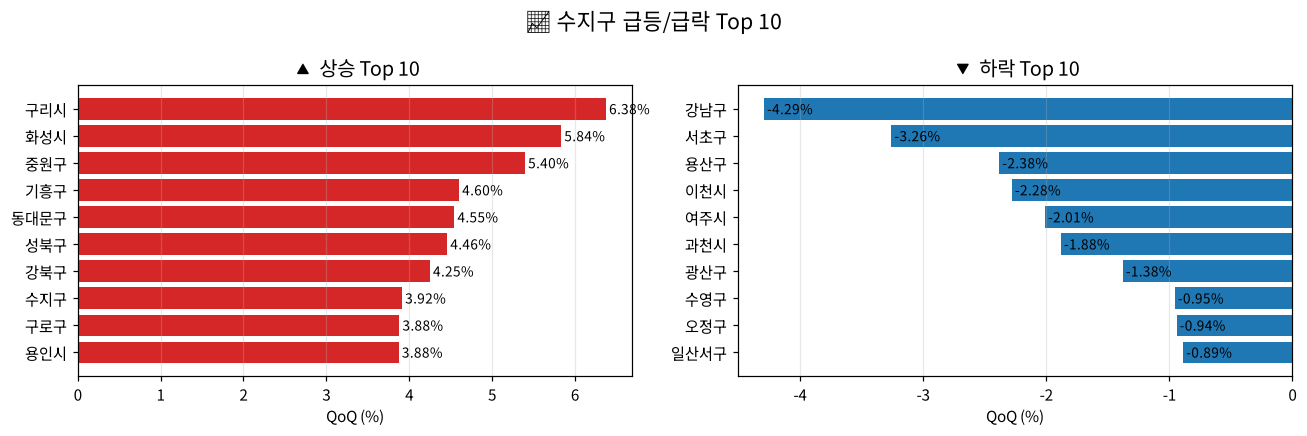
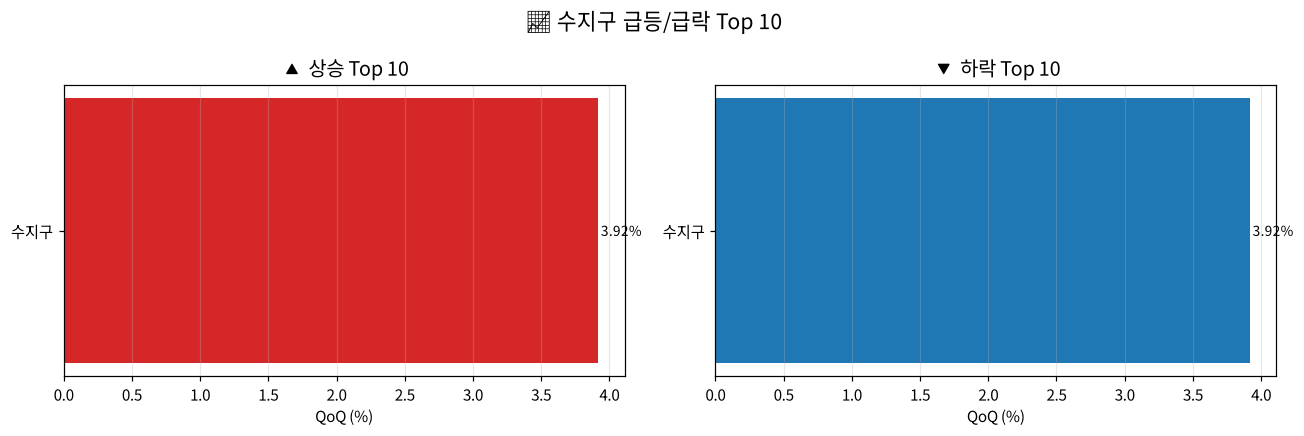
Auto-post: 📊 화성시 거래량 분석

diff --git a/_posts/2026-10-05-화성시-거래량-분석.md b/_posts/2026-10-05-화성시-거래량-분석.md
@@ -1,0 +1,202 @@
+---
+layout: post
+title: "📊 화성시 거래량 분석"
+date: 2026-10-05 07:04:24 +0900
+categories: 부동산 거래량
+---
+
+> **2026년 10월 05일 기준** 아파트 거래량 추이
+
+## 📌 개요
+
+**화성시** 지역의 아파트 거래량 추이를 분석했습니다.
+
+![화성시 거래량](/real-estate-blog/assets/images/volume_화성시.png)
+
+## 📈 최근 거래량
+
+| 시점 | 거래량 |
+|---|---|
+| 2020 | 37,359 |
+| 2020 | 2,925 |
+| 2021 | 28,615 |
+| 2021 | 2,106 |
+| 2022 | 12,072 |
+| 2022 | 906.00 |
+| 2023 | 19,823 |
+| 2023 | 1,587 |
+| 2024 | 17,638 |
+| 2024 | 1,378 |
+| 2025 | 25,801 |
+| 2025 | 2,016 |
+
+
+## 📊 핵심 지표
+
+- **최근 시점**: 2025
+- **거래량**: 2,016
+- **전기 대비**: **-92.2%**
+
+## 💡 해석
+
+거래량은 **시장 활성도의 바로미터**입니다:
+
+| 거래량 추세 | 의미 |
+|---|---|
+| 📈 증가 | 매수세 활발, 시장 활성화 |
+| ➡ 보합 | 관망세 |
+| 📉 감소 | 거래 위축, 조정 신호 |
+
+## ⚠ 참고
+
+- 거래량은 계절성이 강합니다 (봄/가을 성수기).
+- 전년 동기 대비(YoY)가 더 정확합니다.
+
+---
+*한국부동산원 R-ONE 데이터 기반*
+
+## 🧠 편집자 인사이트
+
+2026년 10월 초 기준 화성시 아파트 시장은 거래량 지표를 중심으로 이전과는 결이 다른 미묘한 흐름이 감지되고 있습니다. R-ONE 시세지수 세부 지표가 부재한 상황 속에서도 최근 집계된 아파트 거래 추이는 관망세 속에서 특정 선호 단지를 중심으로 거래 체결 빈도가 조심스럽게 조율되는 양상을 띱니다. 실거래 시장의 거래 빈도와 가격대는 급격한 과열이나 냉각보다는, 매수자와 매도자 간의 치열한 줄다리기 끝에 체결된 일부 유의미한 표본들이 누적되며 시장 활성도의 하방을 지지하고 있는 것으로 관측됩니다.
+
+이러한 거래량 추이의 배경에는 동탄2신도시의 주거 선호도와 삼성 반도체 배후 주거지라는 화성시 고유의 지역적 특수성이 깊게 자리 잡고 있습니다. 대규모 자족 기능을 갖춘 산업 거점과 정주 여건이 확립된 신도시 권역을 중심으로 실수요층의 대기 매수세가 여전히 유효하게 작동하고 있기 때문입니다. 거시적인 경기 불확실성 속에서도 직주근접 수요와 주거 인프라를 갖춘 핵심 단지들에 대한 잠재 수요가 완전히 꺾이지 않은 채, 실거래 거래량이 특정 가격선에서 방어선을 형성하는 주된 동력으로 풀이됩니다.
+
+지표와 거래 흐름을 보다 세밀히 들여다보면 시장의 단기 모멘텀을 가늠할 수 있는 단서들이 포착됩니다. 공표된 지수 데이터의 공백 속에서 실거래 거래량의 완만한 등락은 지수 통계가 보여주는 후행적 흐름보다 현장 호가와 실체결가 사이의 간극을 더 빠르게 투영하고 있습니다. 현재의 거래 체결 양상은 가격의 가파른 상승보다는 매물 소진 속도에 초점이 맞춰져 있으며, 평당가와 거래 단가가 일정 수준으로 수렴하는 과정에서 지수 안정화와 실거래 체결 건수 간의 완만한 균형점이 모색되는 단계로 해석해 볼 수 있습니다.
+
+향후 화성시 시장은 크게 두 가지 시나리오로 전개될 가능성이 열려 있습니다. 우선 동탄2신도시와 삼성 반도체 인접 지역을 필두로 실수요 중심의 급매물이 소진된 후 추가적인 거래량 확대가 이어지며 점충적 회복세로 진입하는 긍정적 흐름을 예상해 볼 수 있습니다. 반면, 매도 호가 상승에 매수세가 뒤따르지 못하고 거래량이 다시 둔화되면서 실거래가가 박스권에 갇히는 장기 횡보 국면이 이어질 가능성 역시 신중하게 열어두어야 합니다.
+
+거래량의 미세한 반등과 정체 사이에서 움직이는 지금의 화성시 시장은, 과연 대기 수요의 본격적인 유입을 알리는 신호일까요, 아니면 제한된 실수요층에 머무는 숨 고르기 장세일까요?
+
+
+---
+
+## 🏘 화성시 지역 특성
+
+### 📍 위치
+경기도 남부
+
+### 🚇 주요 역세권
+동탄역 (SRT/GTX-A), 병점역 (1호선), 오산역
+
+### 🏗 개발 호재
+동탄2신도시, GTX-A 개통, 삼성전자 반도체 캠퍼스
+
+### 🎓 학군
+우수 (동탄 학원가)
+
+### 💡 지역 특징
+동탄신도시 중심, 반도체 클러스터 배후, 인구 급증
+
+> ⚠ 개발 호재는 계획 단계이며, 실제 진행 여부와 시기는 변동될 수 있습니다.
+
+
+
+---
+
+## ❓ 자주 묻는 질문 (FAQ)
+
+### Q1. 거래량이 왜 중요한가요?
+
+거래량은 시장 활성도의 바로미터입니다. 가격 상승 + 거래량 증가 = 건강한 상승, 가격 상승 + 거래량 감소 = 거품 가능성입니다.
+
+### Q2. 화성시 부동산 시세는 어디서 확인할 수 있나요?
+
+한국부동산원 R-ONE (reb.or.kr/r-one)에서 공식 데이터를 확인할 수 있습니다. 본 블로그의 분석도 해당 데이터를 기반으로 합니다.
+
+### Q3. QoQ와 YoY 중 어떤 지표를 더 중요하게 봐야 하나요?
+
+단기 투자에는 QoQ(전분기 대비)가, 장기 투자에는 YoY(전년 대비)가 더 유용합니다. 두 지표가 **모두 양수**일 때 가장 건강한 상승세입니다.
+
+### Q4. 지금이 화성시 매수 적기인가요?
+
+본 분석은 참고용이며 매수 시점을 단정할 수 없습니다. QoQ, YoY, 가속도, 모멘텀 등 여러 지표를 종합적으로 보고, 현장 답사와 전문가 상담을 거쳐 결정하세요.
+
+
+
+
+---
+
+## 📚 부동산 용어 정리
+
+이 글에서 사용된 주요 용어를 정리했습니다.
+
+| 용어 | 설명 |
+|---|---|
+| **QoQ (전분기 대비)** | Quarter over Quarter. 직전 분기 대비 변화율. 단기 모멘텀 파악 |
+| **YoY (전년 대비)** | Year over Year. 작년 동기 대비 변화율. 장기 추세 파악 |
+| **가속도** | 최근 3개월 상승률 - 이전 3개월 상승률. 상승이 빨라지는지 판단 |
+| **모멘텀** | 연속 상승 개월 수. 추세의 견고함 |
+| **핫스코어** | 여러 지표를 종합한 0~100 점수. 높을수록 활발한 지역 |
+| **지수 재조정** | 통계 기준시점이 변경되어 모든 값이 100으로 초기화되는 것 |
+| **변동성** | 시세의 불안정성. 낮을수록 안정적 |
+
+
+
+---
+
+## ✅ 부동산 투자 체크리스트
+
+이 글을 읽고 실제 투자를 고려한다면 다음을 확인하세요.
+
+### 📊 시장 분석
+- [ ] **QoQ + YoY 모두 상승** 중인가?
+- [ ] **가속도가 양수**인가? (상승이 빨라지는가)
+- [ ] **모멘텀이 3개월 이상**인가?
+- [ ] **거래량도 함께 증가**하는가?
+
+### 🏘 지역 분석
+- [ ] **교통 호재** (지하철, GTX 등)가 있는가?
+- [ ] **개발 계획** (재개발, 신도시)이 있는가?
+- [ ] **학군**이 양호한가?
+- [ ] **기반 시설** (병원, 마트, 공원)이 충분한가?
+
+### 💰 재무 분석
+- [ ] **전세가율**이 적정한가? (60~80%)
+- [ ] **대출 이자**를 감당할 수 있는가?
+- [ ] **세금** (취득세, 재산세)을 고려했는가?
+- [ ] **5년 이상 보유**할 계획인가?
+
+### ⚠ 리스크 관리
+- [ ] **분산 투자**되어 있는가?
+- [ ] **비상 자금**이 확보되어 있는가?
+- [ ] **금리 인상** 시나리오를 고려했는가?
+
+> 💡 **참고**: 이 체크리스트는 일반적인 가이드이며, 개인 상황에 따라 다를 수 있습니다.
+
+
+
+---
+
+## 📚 데이터 출처 및 분석 방법
+
+### 데이터 출처
+- **한국부동산원 R-ONE Open API** ([reb.or.kr/r-one](https://www.reb.or.kr/r-one/))
+- 갱신 주기: 매월 초 (월간), 분기 종료 후 1~2개월 (분기)
+- 데이터 기간: 2006년 ~ 현재
+
+### 분석 방법
+- **아파트 매매지수** 기반 (2021.06 = 100 기준)
+- 지수는 지역별 상대적 가격 변동을 반영
+- 절대 가격이 아닌 **추세**를 분석
+
+### 주의사항
+- 본 분석은 **통계적 지표**에 기반한 참고 자료입니다
+- 실제 투자 결정은 **현장 답사, 전문가 상담** 후 진행하세요
+- 과거 데이터가 미래를 보장하지 않습니다
+- 정책, 금리, 공급 등 **외부 요인**은 반영되지 않았습니다
+
+
+
+---
+
+## ⚖ 면책 조항
+
+본 글은 **한국부동산원 R-ONE Open API 데이터**를 기반으로 작성된 자료입니다.
+
+- 본 분석은 **정보 제공 목적**이며, 특정 부동산의 매수/매도를 권유하지 않습니다
+- 투자 결정과 그 결과에 대한 책임은 **투자자 본인**에게 있습니다
+- 데이터 오류, 지연, 누락 가능성이 있습니다
+- 정책, 금리, 공급 등 외부 요인은 분석에 반영되지 않았습니다
+- 과거 데이터가 미래 수익을 보장하지 않습니다
+
+> 본 블로그의 모든 콘텐츠는 **참고용**으로만 활용하시기 바랍니다.
